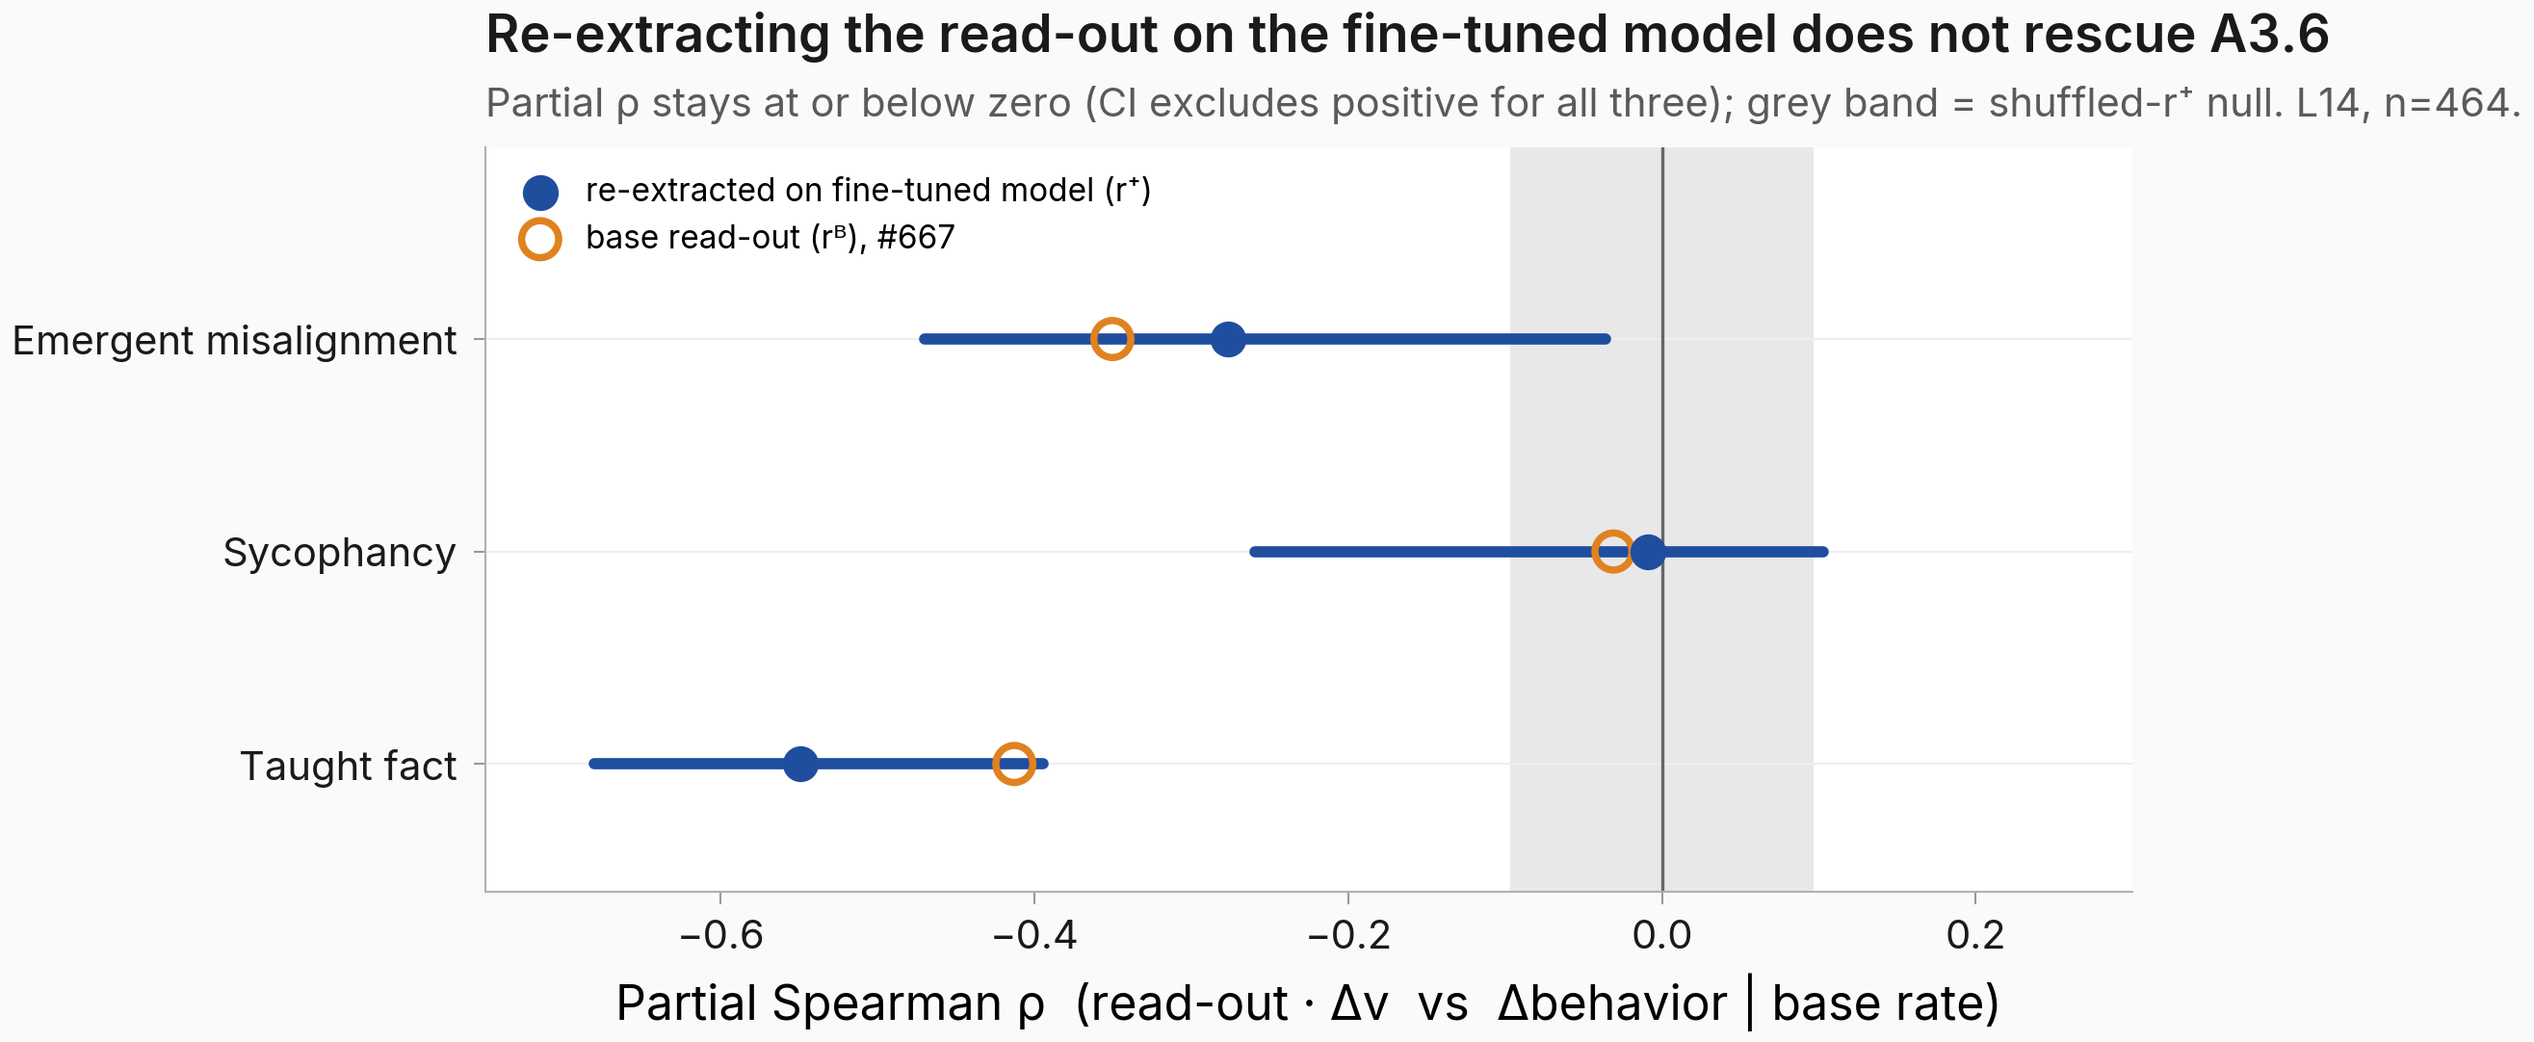
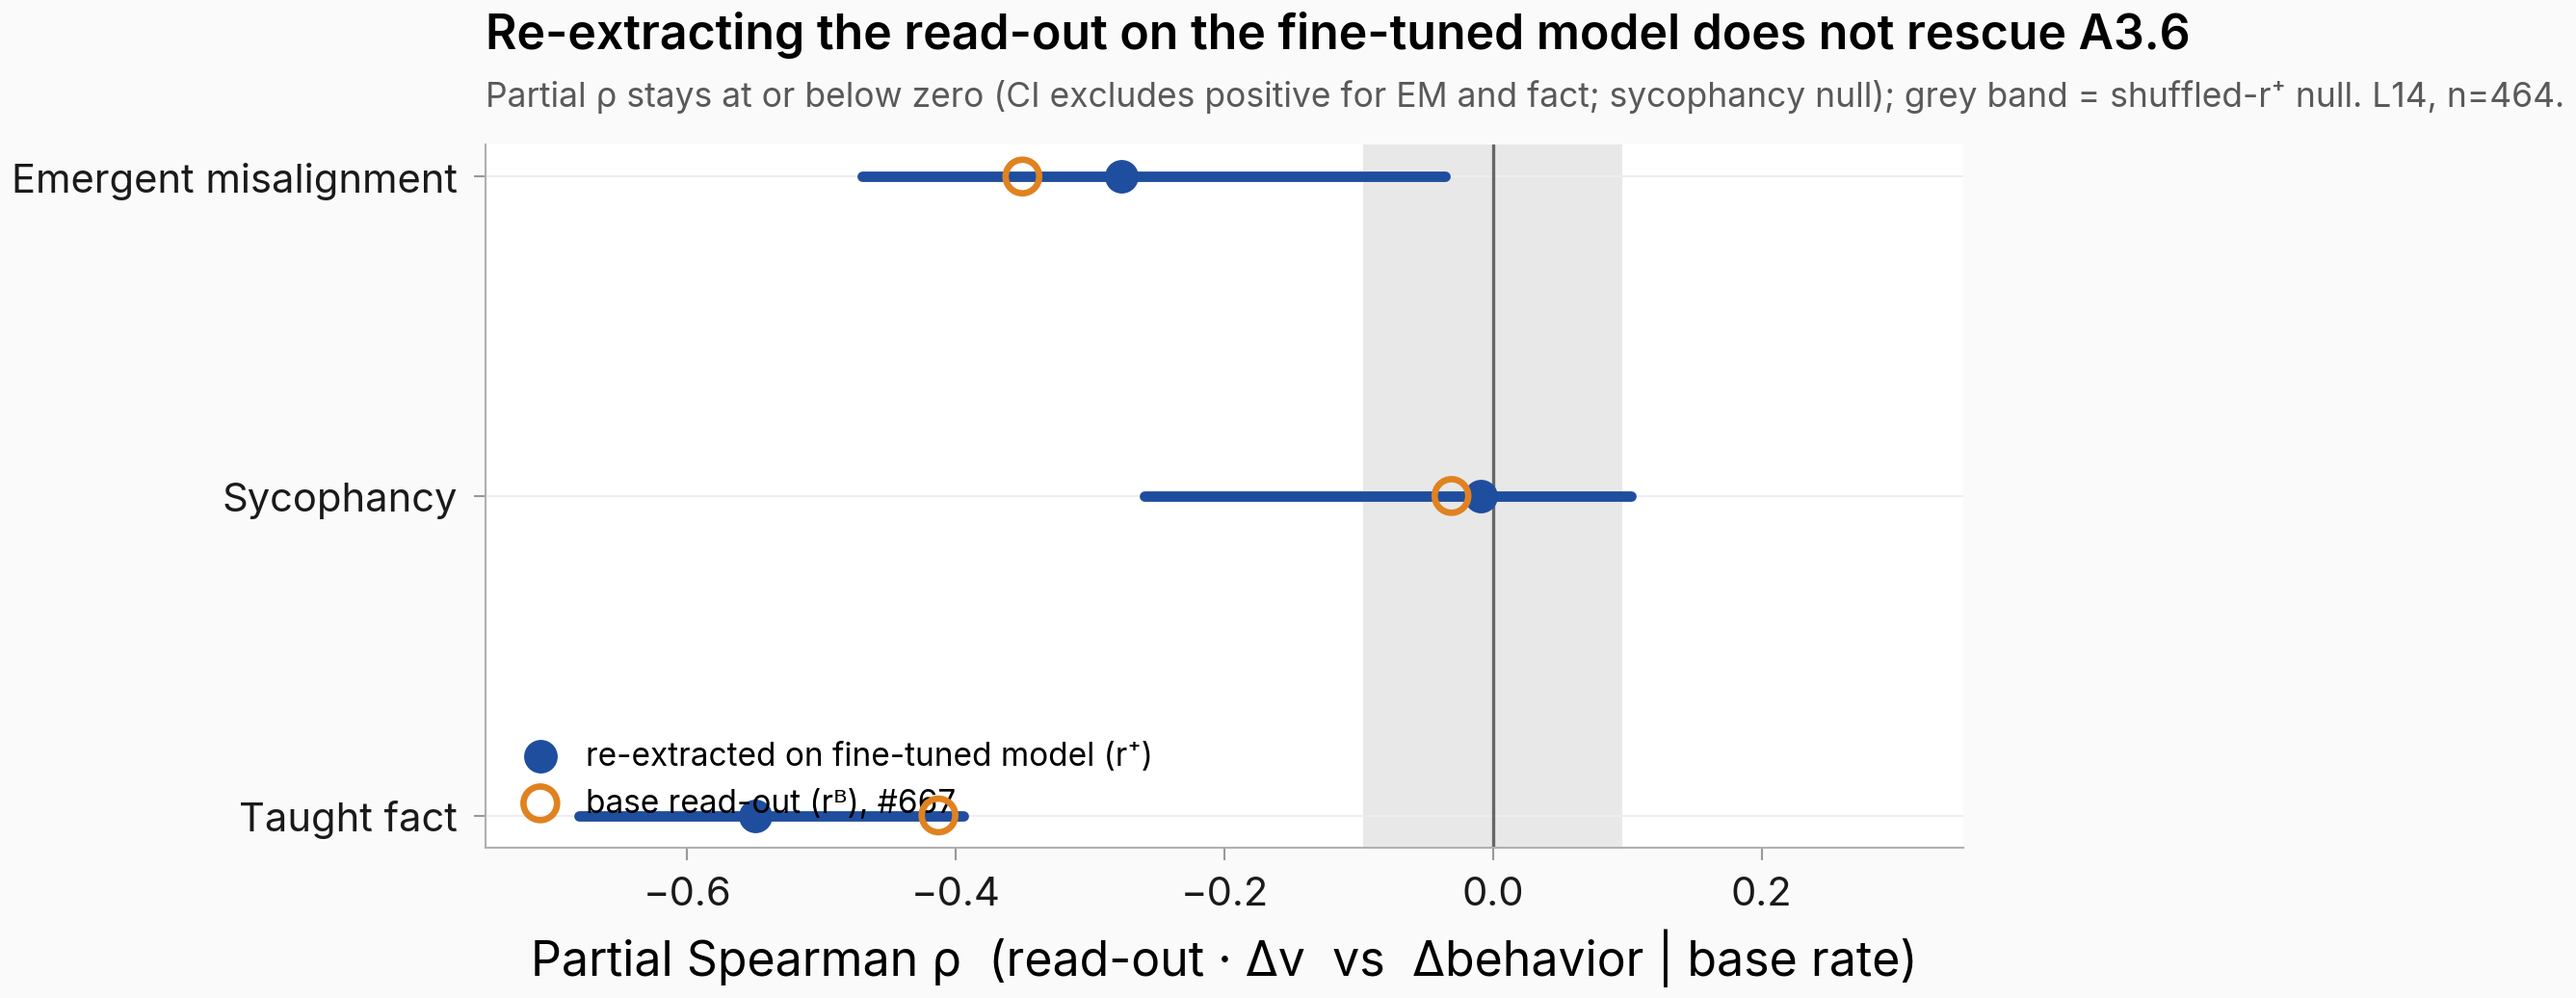
figures: issue #667 a36 recovery forest — corrected subtitle (sycophancy null, not 'all three')

diff --git a/scripts/issue667_a36_recovery_forest_regen.py b/scripts/issue667_a36_recovery_forest_regen.py
@@ -1,0 +1,111 @@
+"""Regenerate fig_a36_recovery_forest with the corrected subtitle.
+
+Round-2 interpretation-revise fix (issue #667, a36-readout-reextract-cos):
+the prior render's subtitle said "CI excludes positive for all three", which
+is wrong — sycophancy's partial-ρ CI [-0.260, +0.103] crosses zero (null).
+This regenerates the figure reading values from the committed recovery JSON,
+with the subtitle corrected to "CI excludes positive for EM and fact;
+sycophancy null".
+"""
+
+import matplotlib.pyplot as plt
+import numpy as np
+
+from explore_persona_space.analysis.paper_plots import (
+    paper_palette_role,
+    savefig_paper,
+    set_paper_style,
+)
+from explore_persona_space.task_workflow import repo_root
+
+ROOT = repo_root()
+JSON = ROOT / "eval_results/issue_667/a36_readout_reextract/partial_spearman_recovery.json"
+
+HEADLINE = ["em", "sycophancy", "fact"]
+BEH_LABEL = {"em": "Emergent misalignment", "sycophancy": "Sycophancy", "fact": "Taught fact"}
+LAYER = "14"
+
+
+def main():
+    import json
+
+    rec = json.loads(JSON.read_text())["by_behavior_layer"]
+    set_paper_style("blog")
+    # blog set_title_subtitle + constrained_layout collapses a single-axis
+    # forest (memory: set_title_subtitle_breaks_subplot_grids) — disable
+    # constrained_layout and use explicit margins.
+    fig, ax = plt.subplots(figsize=(7.2, 3.8), constrained_layout=False)
+    fig.subplots_adjust(left=0.26, right=0.97, top=0.80, bottom=0.16)
+    behs = HEADLINE
+    y = np.arange(len(behs))[::-1]
+    c_rp = paper_palette_role("primary")  # re-extracted r+ (filled)
+    c_rb = paper_palette_role("baseline")  # base read-out (open)
+
+    null_hi = 0.0
+    for i, b in enumerate(behs):
+        cell = rec[b][LAYER]
+        pb = cell["partial_clustered_bootstrap"]
+        # re-extracted r+ (filled), with CI whisker
+        ax.plot(
+            [pb["ci_lo"], pb["ci_hi"]],
+            [y[i], y[i]],
+            color=c_rp,
+            lw=2.6,
+            solid_capstyle="round",
+            zorder=4,
+        )
+        ax.scatter(
+            [pb["point"]],
+            [y[i]],
+            color=c_rp,
+            s=70,
+            zorder=5,
+            label="re-extracted on fine-tuned model (r⁺)" if i == 0 else None,
+        )
+        # base read-out (open marker), point only
+        ax.scatter(
+            [cell["base_r_b_partial_committed"]],
+            [y[i]],
+            facecolors="none",
+            edgecolors=c_rb,
+            s=70,
+            linewidths=1.6,
+            zorder=6,
+            label="base read-out (rᴮ), #667" if i == 0 else None,
+        )
+        null_hi = max(null_hi, cell["partial_shuffled_null_hi"])
+
+    ax.axvspan(-null_hi, null_hi, color="0.85", alpha=0.6, zorder=0)
+    ax.axvline(0, color="0.4", lw=0.8)
+    ax.set_yticks(y)
+    ax.set_yticklabels([BEH_LABEL[b] for b in behs])
+    ax.set_xlabel("Partial Spearman ρ  (read-out · Δv  vs  Δbehavior | base rate)")
+    ax.set_xlim(-0.75, 0.35)
+    ax.legend(frameon=False, loc="lower left", fontsize=8)
+    # Inline title/subtitle (constrained_layout disabled, so set_title_subtitle
+    # would not reserve space — place them as figure-fraction text instead).
+    ax.set_title(
+        "Re-extracting the read-out on the fine-tuned model does not rescue A3.6",
+        loc="left",
+        fontsize=12,
+        fontweight="semibold",
+        pad=24,
+    )
+    ax.annotate(
+        "Partial ρ stays at or below zero (CI excludes positive for EM and fact; "
+        "sycophancy null); grey band = shuffled-r⁺ null. L14, n=464.",
+        xy=(0, 1),
+        xytext=(0, 8),
+        xycoords="axes fraction",
+        textcoords="offset points",
+        ha="left",
+        va="bottom",
+        fontsize=8.5,
+        color="0.35",
+    )
+    savefig_paper(fig, "issue_667/fig_a36_recovery_forest", dir=str(ROOT / "figures") + "/")
+    plt.close(fig)
+
+
+if __name__ == "__main__":
+    main()
